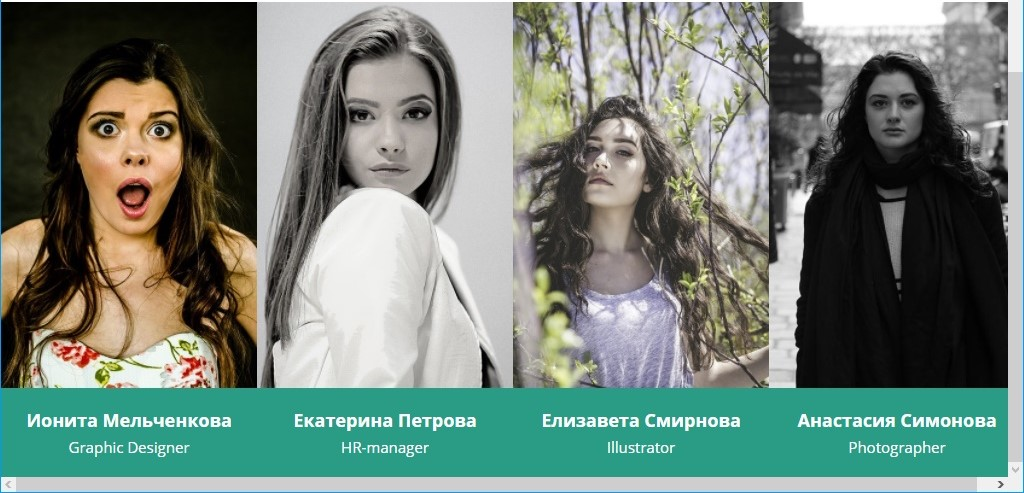
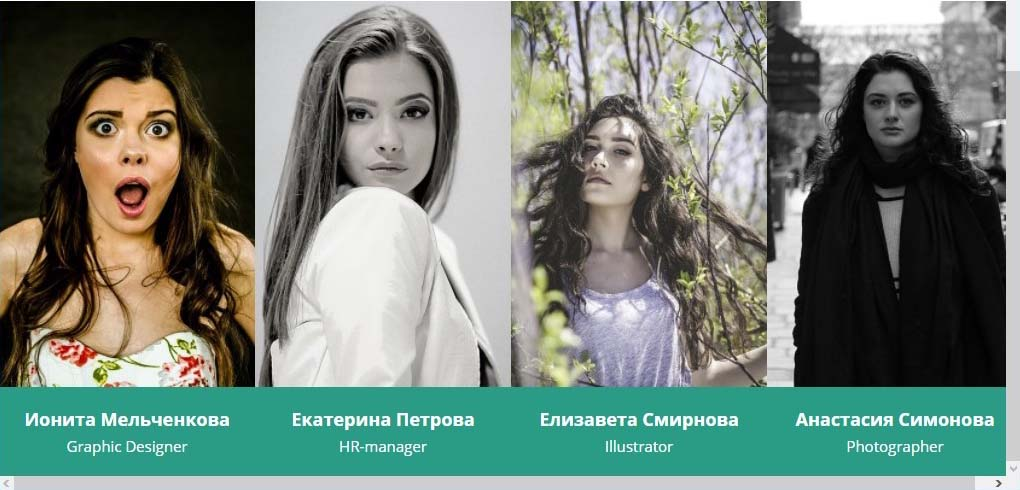
описания задач 2.1 / правка опечаток

diff --git a/media-types/services/css/services-common.css b/media-types/services/css/services-common.css
@@ -65,19 +65,19 @@ p{
 }
 
 .service_design:before {
-	background-image: url("https://netology-code.github.io/mq-homeworks/media-queries/services/img/design.svg");
+	background-image: url("https://netology-code.github.io/mq-homeworks/media-types/services/img/design.svg");
 }
 
 .service_html5:before {
-	background-image: url("https://netology-code.github.io/mq-homeworks/media-queries/services/img/html5.svg");
+	background-image: url("https://netology-code.github.io/mq-homeworks/media-types/services/img/html5.svg");
 }
 
 .service_backend:before {
-	background-image: url("https://netology-code.github.io/mq-homeworks/media-queries/services/img/backend.svg");
+	background-image: url("https://netology-code.github.io/mq-homeworks/media-types/services/img/backend.svg");
 }
 
 .service_analytics:before {
-	background-image: url("https://netology-code.github.io/mq-homeworks/media-queries/services/img/analytics.svg");
+	background-image: url("https://netology-code.github.io/mq-homeworks/media-types/services/img/analytics.svg");
 }
 
 .service__name {

diff --git a/media-types/team/README.md b/media-types/team/README.md
@@ -2,14 +2,14 @@
 
 ## Описание
 
-Вы работаете над сайтом веб-студии вместе с коллегой-верстальщиком. После разделения обязанностией ему достался блок “Наша команда”. 
+Вы работаете над сайтом веб-студии вместе с коллегой-верстальщиком. После разделения обязанностей ему достался блок “Наша команда”. 
 
 По семейным обстоятельствам он вынужден оставить проект на некоторое время и закончить работу над блоком придется вам. 
-Текущая реализация блока выглядит следующим образом:
+Сейчас карточки не помещаются в одну строку и блок выглядит так:
  
 ![Team layout current](../../sources/media-queries-team-current.jpg)
 
-Ваша задача &mdash; исправить верстку так, чтобы все четыре блока располагались в одну строку в окне браузера шириной `1024px` и больше:
+Ваша задача &mdash; исправить верстку так, чтобы все четыре карточки располагались в одну строку в окне браузера шириной `1024px` и больше:
 
 ![Team layout target](../../sources/media-queries-team-target.jpg)
 

diff --git a/media-types/print-poster/README.md b/media-types/print-poster/README.md
@@ -3,6 +3,10 @@
 ## Описание
 Ваша кампания подготовила забавный плакат к международному дню родного языка. Планируется распечатать плакат и разослать его клиентам компании. Но есть клиенты, которые находятся очень далеко. Чтобы подарок попал к ним вовремя, решили сделать еще и веб-открытку.
 
+Верстка в окне браузера выглядит так:
+
+![poster in the browser](../../sources/media-queries-poster-page.jpg)
+
 На случай, если кто-то из получателей электронной открытки захочет ее распечатать, вам нужно предусмотреть стили для печати, чтобы открытка выглядела аккуратно и празднично:
 
 ![poster card](../../sources/media-queries-poster-card.jpg)

diff --git a/media-types/services/README.md b/media-types/services/README.md
@@ -2,7 +2,7 @@
 
 ## Описание
 
-К вам обратился за помощью владелец одной из местных веб-студии. Разработкой личного сайта студии занимался фрилансер, но в ходе работы он пропал, не доделав блок с услугами компании. 
+К вам обратился за помощью владелец одной из местных веб-студий. Разработкой личного сайта студии занимался фрилансер, но в ходе работы он пропал, не доделав блок с услугами компании. 
 Сейчас этот блок выглядит так:
  
 ![Services layout current](../../sources/media-queries-services-current.jpg)
